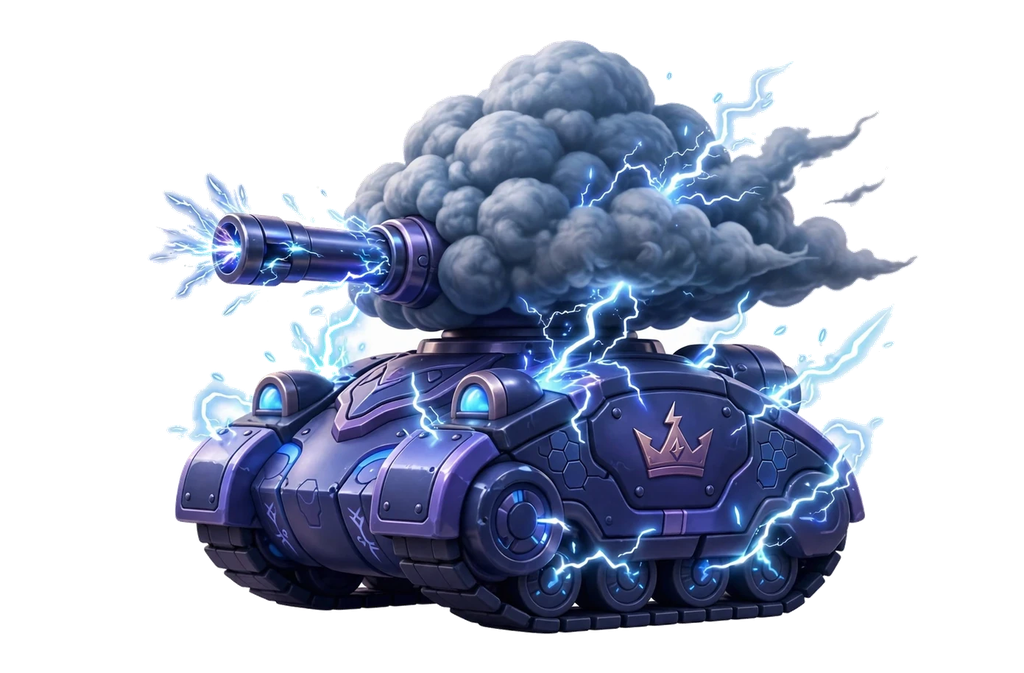
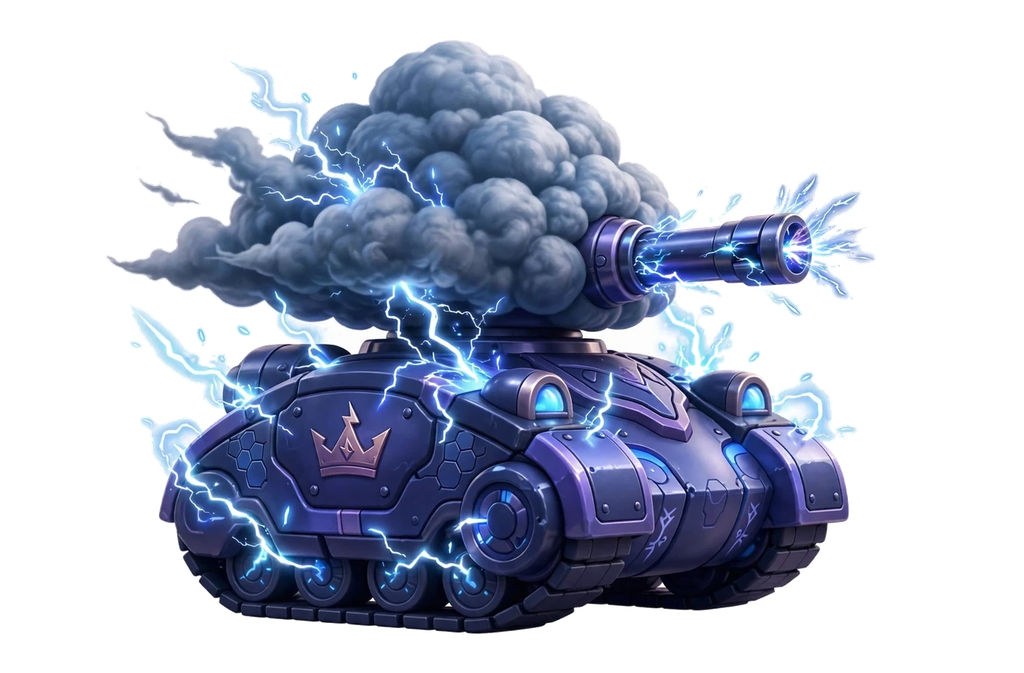
Tempestra godskin flipped to face right like the other godskins; guild boss spawn flips godskin art so every guild boss faces the player

diff --git a/www/index.html b/www/index.html
@@ -5510,8 +5510,8 @@ const assetManifest={
    hand-maintained version tags. On boot the page fetches the manifest with
    cache:'no-store' and hard-reloads once if EITHER the live asset build or the
    live HTML version differs, so a stale cache can never survive a republish. */
-const __BUILD_ID='2467647b56';
-const __HTML_V='ca56a3d43e';
+const __BUILD_ID='9ad3645d99';
+const __HTML_V='42140a2ef4';
 const __ASSET_V=__BUILD_ID;
 /* Synchronous snapshot of the actual art files in assets/build-manifest.json. The live
    manifest refresh below replaces this set as soon as it arrives. All player/enemy
@@ -8761,7 +8761,7 @@ function spawnGuildEnemy(){
  try{setBattleBackground(BATTLE_BG_DEFAULT)}catch(e){}
  var img=$('enemySprite');__tkSetImg(img,boss.sprite,boss.name+' — guild boss');
  img.dataset.kingdom='';img.classList.remove('defeat','hit');img.classList.add('boss');
- img.style.removeProperty('scale');
+ img.style.scale='-1 1'; /* godskin art faces right (player-facing) — flip so the guild boss faces the player */
  updateHUD();
 }
 function guildOnBossKilled(e){
